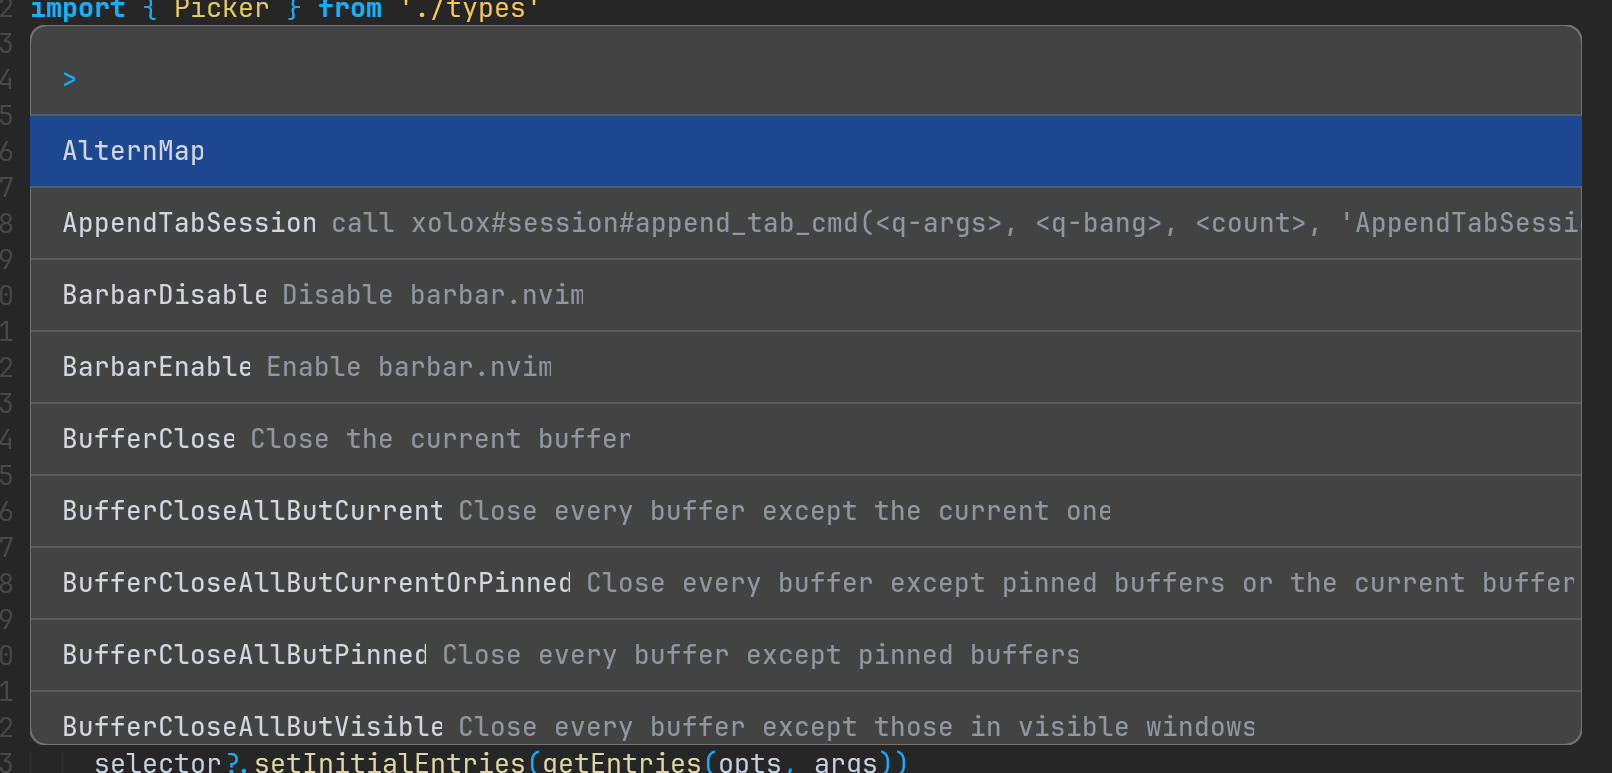
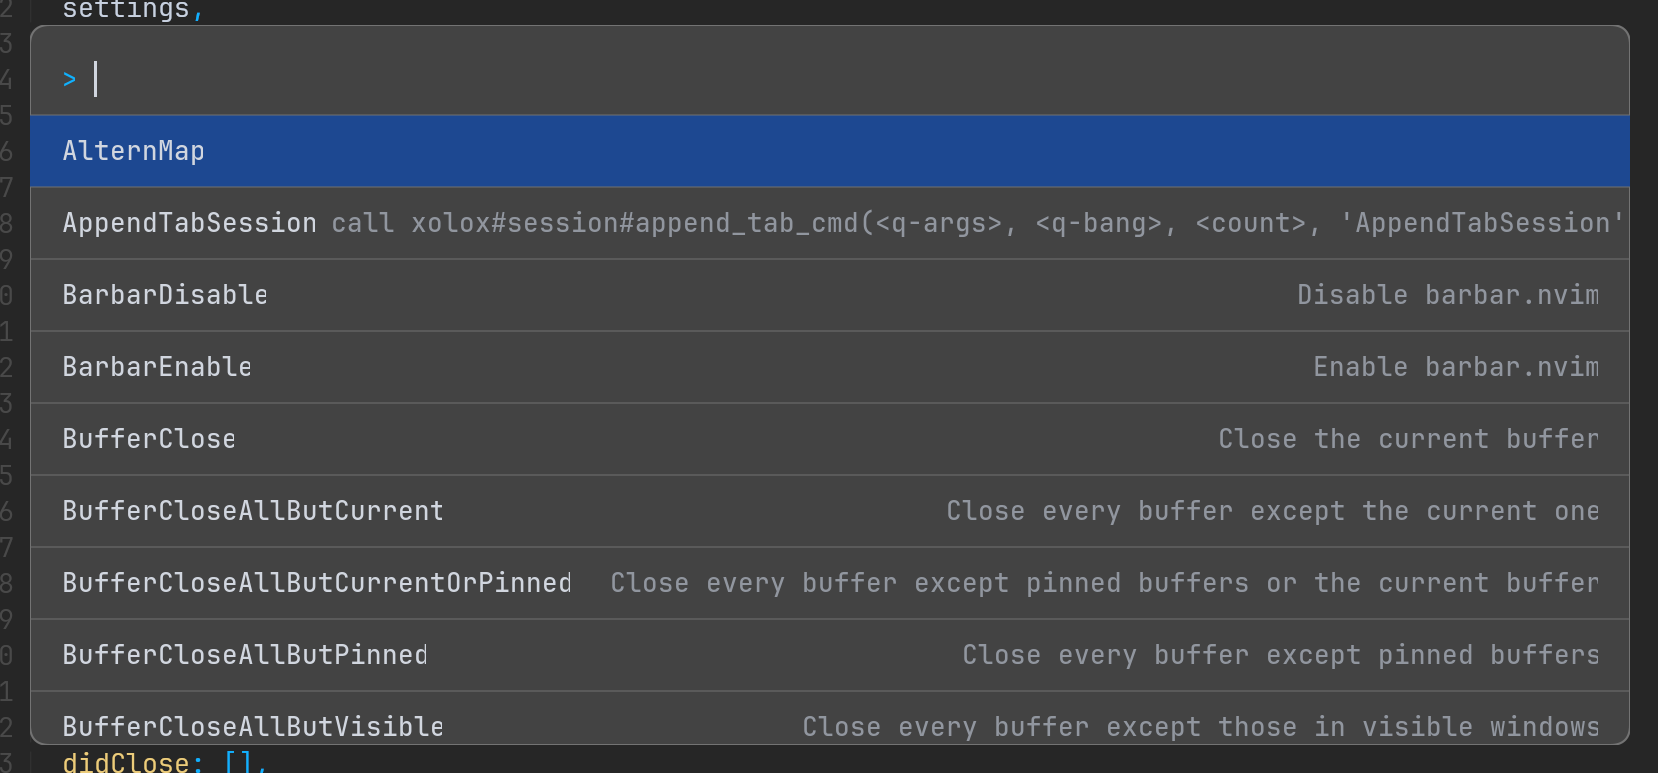
update

diff --git a/src/components/Selector.ts b/src/components/Selector.ts
@@ -243,7 +243,8 @@ export class Selector extends EventEmitter<Events> {
       return
     }
 
-    const { hasIcon, singleLine } = this.opts
+    const { hasIcon, singleLine, detailsAlign } = this.opts
+    const alignDetailsRight = detailsAlign === 'right'
     const yForIndex = (i: number) => i * this.entryHeight
 
     if (!isEmpty) {
@@ -323,14 +324,20 @@ export class Selector extends EventEmitter<Events> {
       if (entry.details !== undefined) {
         const details = entry.details
         const textEntry = line.addChild(new Text(details, this.detailsStyle))
+        if (singleLine) {
+          textEntry.y = 0.5 * ch
+          if (alignDetailsRight) {
+            const endX = this.width - this.paddingX
+            const x = endX - textEntry.width
+            textEntry.x = Math.max(currentX, x)
+          } else {
+            textEntry.x = currentX
+          }
+        }
         if (!singleLine) {
           textEntry.y = 1.5 * ch
           textEntry.x = this.textPaddingX
-        } else {
-          textEntry.y = 0.5 * ch
-          textEntry.x = currentX
         }
-        currentX += textEntry.width
       }
 
       {

diff --git a/src/pickers/ctags.ts b/src/pickers/ctags.ts
@@ -1,13 +1,14 @@
-import type { Entry } from '../types'
+import type { Entry, Picker } from '../types'
 
-const currentFile = {
+const currentFile: Picker = {
   id: 'ctags-current-file',
   prefix: 'Jump to ',
   prefixColor: 'comment',
   hasIcon: false,
   singleLine: true,
+  detailsAlign: 'right',
   entries: function(this: void) {
-    const file = vim.fn.bufname(0)
+    const file = vim.fn.bufname()
     if (!file || file === '') {
       return []
     }
@@ -23,11 +24,12 @@ const currentFile = {
       const code = pattern.trim()
       const columnNumber = pattern.length - pattern.trimStart().length
 
+      const text = `${lineNumber}: ${symbol}`
       return {
-        label: symbol,
-        details: `${lineNumber}: ${code}`,
-        text: symbol,
-        value: symbol,
+        label: text,
+        details: code,
+        text: text,
+        value: text,
         data: {
           lineNumber,
           columnNumber,

diff --git a/src/pickers/commands.ts b/src/pickers/commands.ts
@@ -1,4 +1,4 @@
-import type { Entry } from '../types'
+import type { Entry, Picker } from '../types'
 
 type Command = {
   name: string,
@@ -27,6 +27,7 @@ export default {
   prefixColor: 'keyword',
   hasIcon: false,
   singleLine: true,
+  detailsAlign: 'right',
   entries: function(this: void, args: any[]) {
     if (!commands || !entries) {
       commands = Object.values(vim.api.nvim_get_commands({})) as Command[]
@@ -53,4 +54,4 @@ export default {
       vim.fn.feedkeys(':' + command.name + ' ', 'n')
     }
   },
-}
+} as Picker

diff --git a/src/types.ts b/src/types.ts
@@ -52,6 +52,8 @@ export type Picker =
      * Default: `true`
      */
     singleLine?: boolean,
+    /** Alignment of details text */
+    detailsAlign?: 'left' | 'right',
     /** The desired width, in terminal columns */
     width?: number,
     /**
